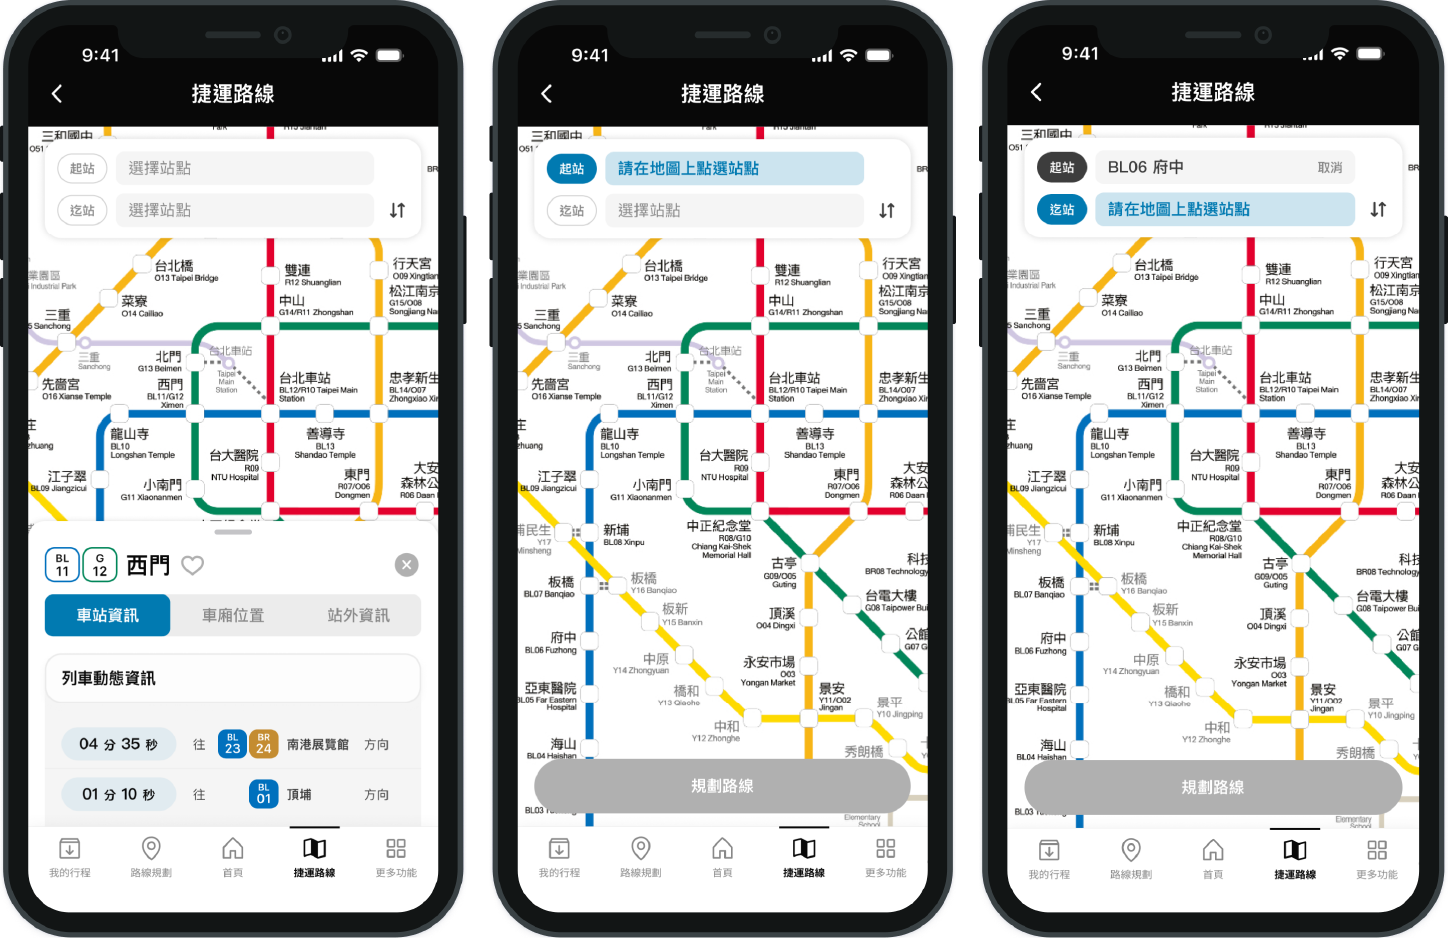
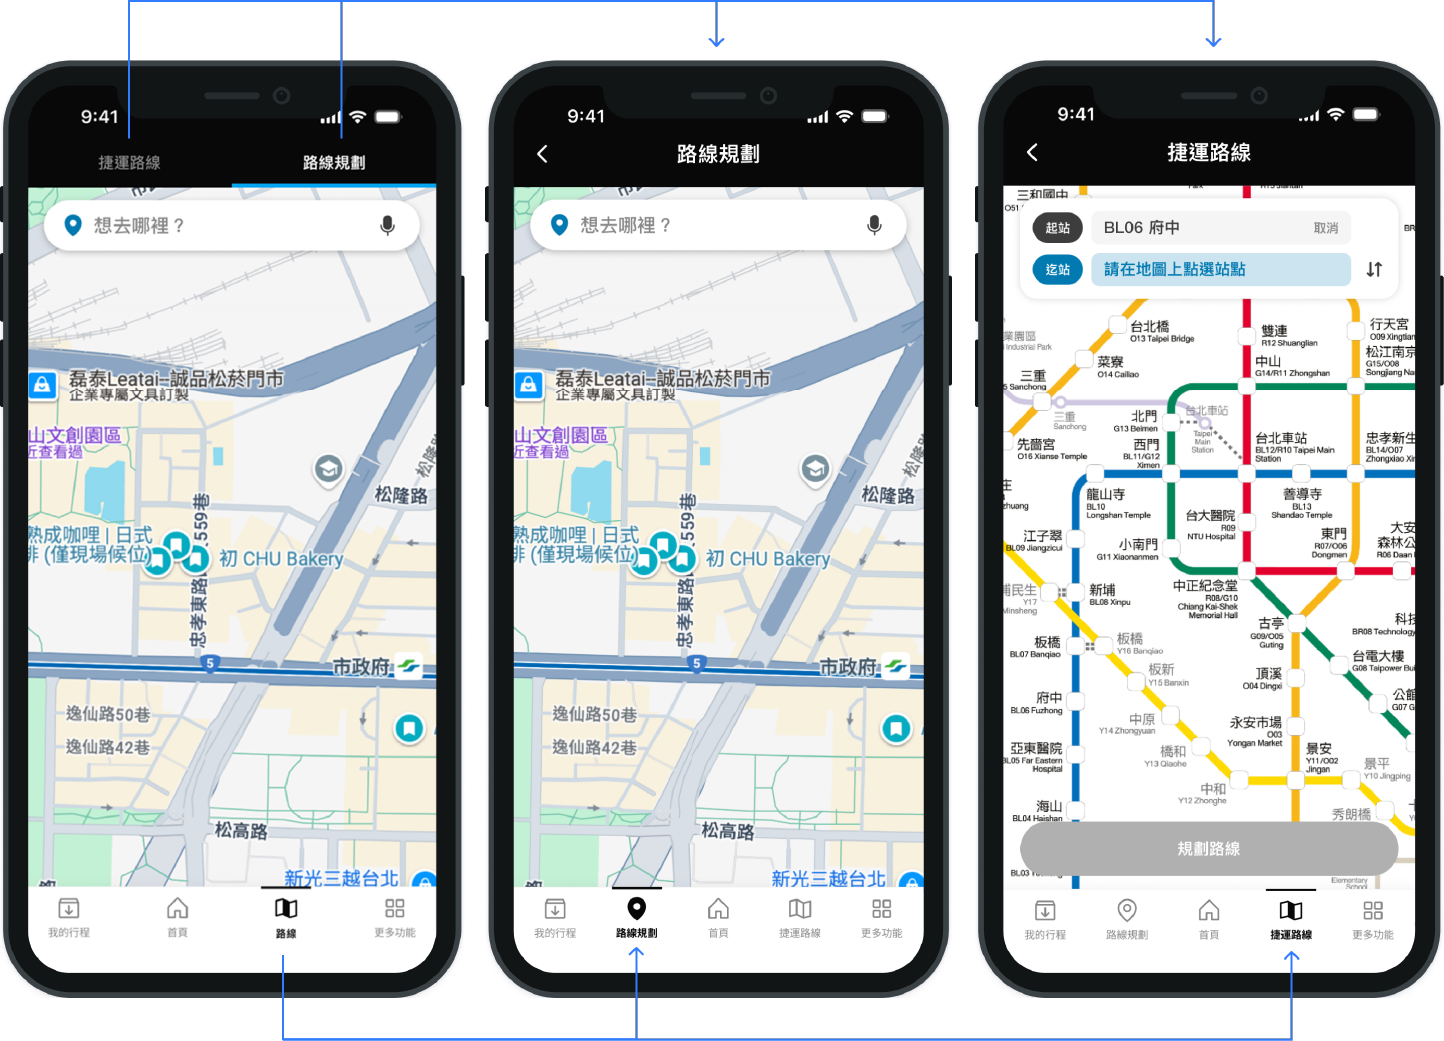
metro

diff --git a/portfolio/en/projects/metrogo.html b/portfolio/en/projects/metrogo.html
@@ -275,6 +275,7 @@
     <div class="row">
         <div data-aos="fade-right" class="col-4 col-md-12 margin-top-30">
             <h5 id="metro-sub6">/Design Update - Metro route planner</h5>
+            <p>Apart the original Segmented Control to two Tabs, to align the consious of users.</p>
         </div>
         <img class="col-md-8 col-4" loading="lazy" src="../../pages/img/metro/function3.webp">
         <video controls class="col-md-3 offset-md-1 col-4 metro-ui" autoplay loop muted playsinline>

diff --git a/portfolio/pages/projects/metrogo.html b/portfolio/pages/projects/metrogo.html
@@ -266,6 +266,7 @@
     <div class="row">
         <div data-aos="fade-right" class="col-4 col-md-12 margin-top-30">
             <h5 id="metro-sub6">/更新設計 - 捷運路線規劃</h5>
+            <p>將原本的Segmented Control拆分為兩個Tab，對應使用者的認知</p>
         </div>
         <img class="col-md-8 col-4" loading="lazy" src="../img/metro/function3.webp">
         <video controls class="col-md-3 offset-md-1 col-4 metro-ui" autoplay loop muted playsinline>
